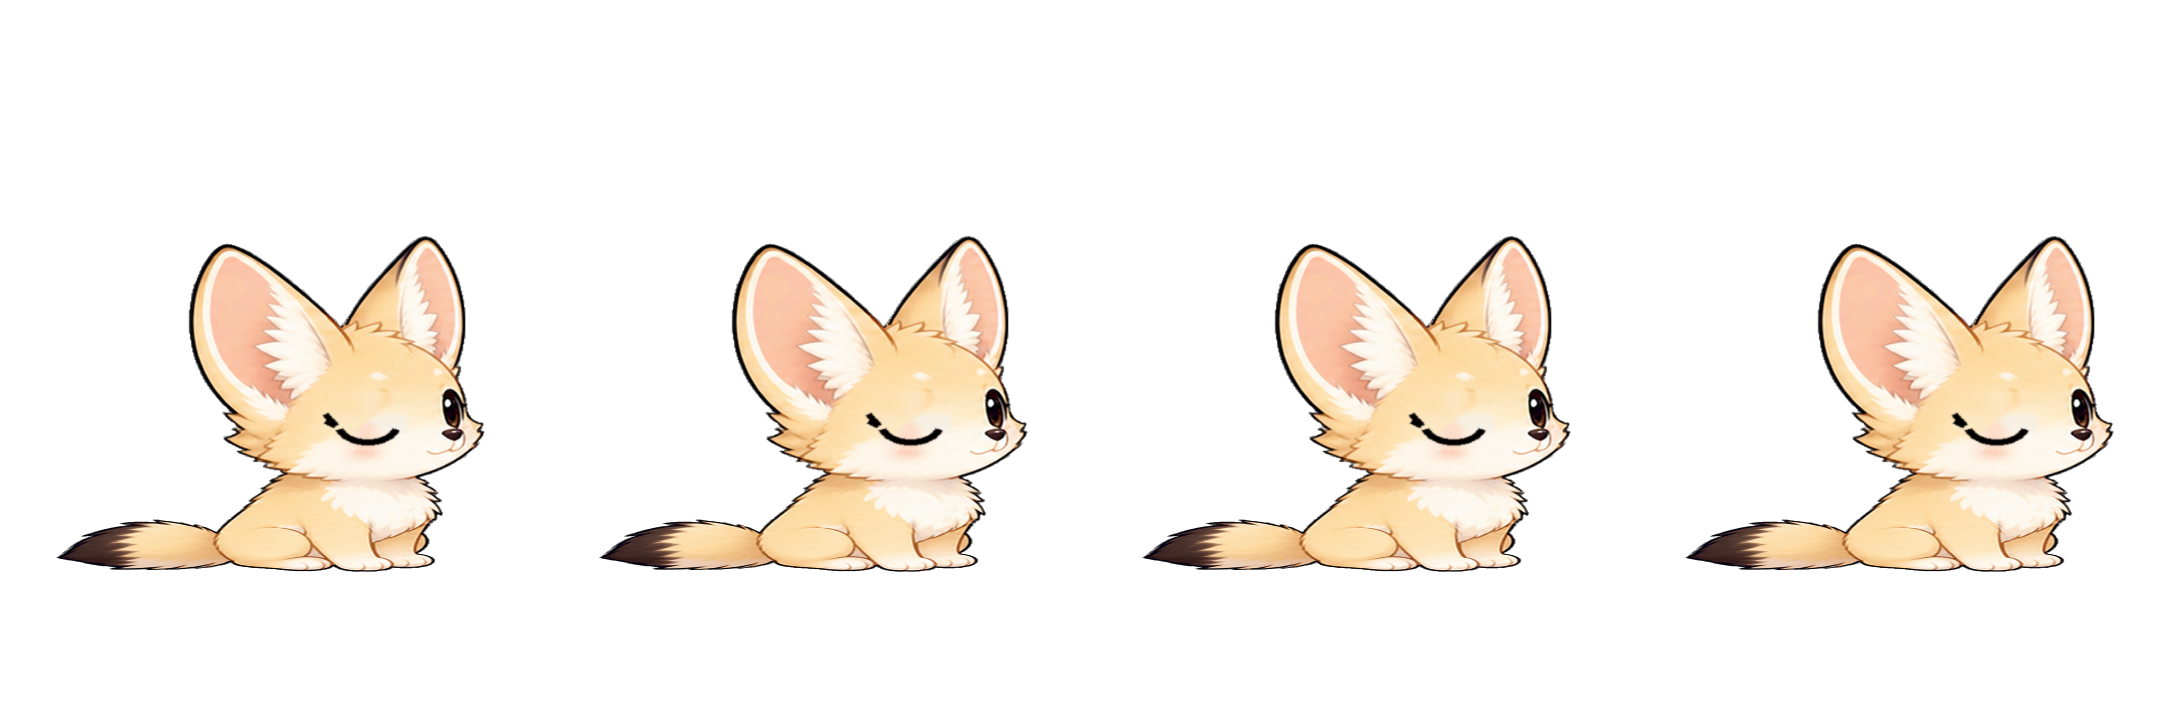
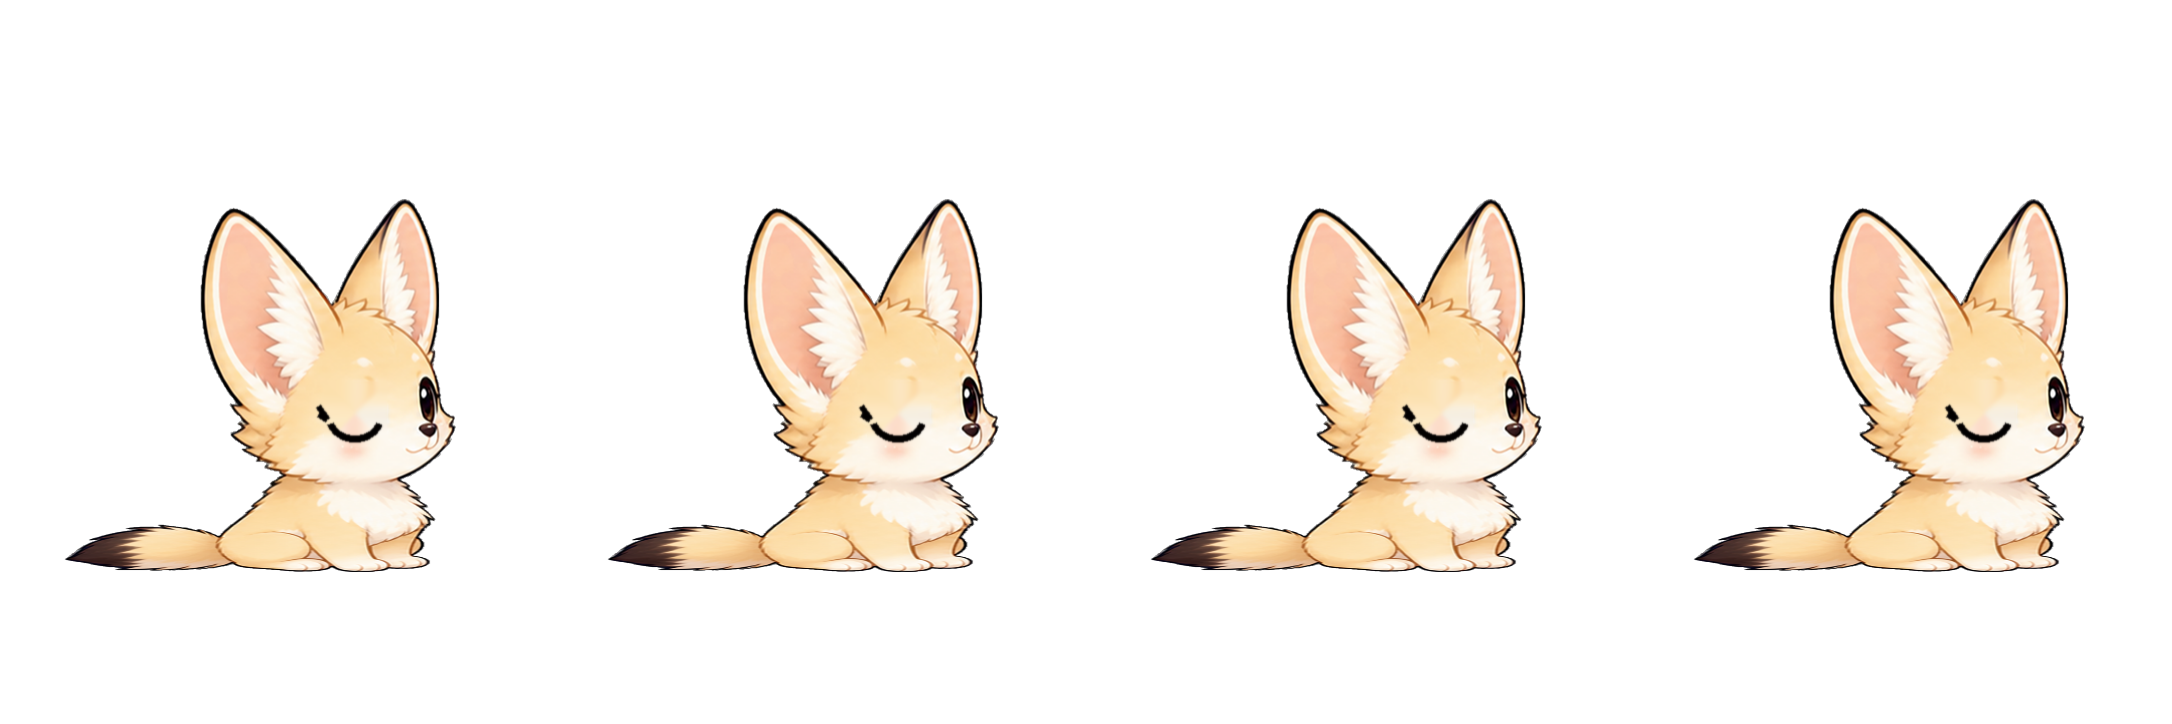
비율 왜곡 수정

diff --git a/src/DeskNote.App/Views/DesktopPetWindow.xaml b/src/DeskNote.App/Views/DesktopPetWindow.xaml
@@ -123,8 +123,14 @@
             PointerMoved="OnPetPointerMoved"
             PointerReleased="OnPetPointerReleased"
             PointerCaptureLost="OnPetPointerCaptureLost">
+            <!-- Rotation first, so a sway happens in the pet's own space and mirrors with it
+                 when it turns around. Both scale factors are always equal: see
+                 ApplyFacingTransform. -->
             <Grid.RenderTransform>
-                <ScaleTransform x:Name="FacingTransform" ScaleX="-1" ScaleY="1" />
+                <TransformGroup>
+                    <RotateTransform x:Name="PoseRotation" />
+                    <ScaleTransform x:Name="FacingTransform" ScaleX="-1" ScaleY="1" />
+                </TransformGroup>
             </Grid.RenderTransform>
             <Grid.Clip>
                 <RectangleGeometry x:Name="SpriteClip" Rect="0,0,150,200" />

diff --git a/src/DeskNote.App/Views/DesktopPetWindow.xaml.cs b/src/DeskNote.App/Views/DesktopPetWindow.xaml.cs
@@ -33,9 +33,9 @@ public sealed partial class DesktopPetWindow : Window
     // The sleeping artwork is the same frame with the animal lying down in it, so everything
     // that hangs off the pet's head has to come down with it. Measured off the generated sheets
     // by assets/companion/build_sleep_sprites.py, which prints the content bounds it produced.
-    private const double SleepHeadTopFraction = 0.58;
-    private const double SleepRestEffectFraction = 0.50;
-    private const double SleepSpeechFraction = 0.66;
+    private const double SleepHeadTopFraction = 0.62;
+    private const double SleepRestEffectFraction = 0.54;
+    private const double SleepSpeechFraction = 0.80;
     private const double RestEffectSideOffset = 18;
     private const double SpeechBubbleGap = 2;
     private const double SpeechBubbleReserve = 58;
@@ -81,8 +81,7 @@ public sealed partial class DesktopPetWindow : Window
     private double _y;
     private double _frameWidth = BaseFrameWidth;
     private double _frameHeight = BaseFrameHeight;
-    private double _growthScaleX = 1;
-    private double _growthScaleY = 1;
+    private double _growthScale = 1;
     private double _frameTime;
     private int _frame;
     private int _direction = -1;
@@ -100,8 +99,8 @@ public sealed partial class DesktopPetWindow : Window
     private CompanionGrowthMark _growthMark = CompanionGrowthMark.None;
     private double _restElapsed;
     private double _restDuration;
-    private double _poseScaleX = 1;
-    private double _poseScaleY = 1;
+    private double _poseScale = 1;
+    private double _poseAngle;
     private TimeSpan _restUntil;
     private TimeSpan _walkUntil;
     private TimeSpan _lastTopmostCheck;
@@ -311,7 +310,7 @@ public sealed partial class DesktopPetWindow : Window
             0,
             0,
             Math.Min(
-                (_frameHeight * _growthScaleY * SpeechAnchorFraction()) + SpeechBubbleGap,
+                (_frameHeight * _growthScale * SpeechAnchorFraction()) + SpeechBubbleGap,
                 WindowHeight - SpeechBubbleReserve));
 
     /// <summary>How much of the frame the pet currently fills, from the floor up.</summary>
@@ -538,7 +537,7 @@ public sealed partial class DesktopPetWindow : Window
         }
 
         var area = DisplayArea.GetFromWindowId(AppWindow.Id, DisplayAreaFallback.Primary).WorkArea;
-        var visibleFrameWidth = _frameWidth * _growthScaleX;
+        var visibleFrameWidth = _frameWidth * _growthScale;
         var horizontalInset = (WindowWidth - visibleFrameWidth) / 2;
         var left = area.X - horizontalInset;
         var right = area.X + area.Width - WindowWidth + horizontalInset;
@@ -578,7 +577,7 @@ public sealed partial class DesktopPetWindow : Window
             _motionState = PetMotionState.Walking;
             SetAnimation(PetAnimation.Walk);
             SetFrame(0);
-            SetPoseScale(1, 1);
+            SetPose(1, angle: 0);
             GrowthMarkLift.Y = 0;
             ApplyFacingTransform(forceRight: true);
             UpdateOrnamentVisibility();
@@ -632,8 +631,8 @@ public sealed partial class DesktopPetWindow : Window
         // and the facing is re-applied here because an edge turn flips the direction one line
         // before this call - a pet that sat down still facing the wall it just reached read as a
         // missed frame.
-        _poseScaleX = 1;
-        _poseScaleY = 1;
+        _poseScale = 1;
+        _poseAngle = 0;
         ApplyFacingTransform();
     }
 
@@ -645,8 +644,8 @@ public sealed partial class DesktopPetWindow : Window
         // last, and ChooseRestPose uses it to avoid dealing the same pose twice running; clearing
         // it here would have compared every roll against a pose the pet had not held for minutes.
         SetAnimation(PetAnimation.Walk);
-        _poseScaleX = 1;
-        _poseScaleY = 1;
+        _poseScale = 1;
+        _poseAngle = 0;
         ApplyFacingTransform();
         ShowRestEffect();
         PositionSpeechBubble();
@@ -722,24 +721,22 @@ public sealed partial class DesktopPetWindow : Window
             case PetRestPose.Sleep:
                 // No frame advance: the sheet is one held pose, and the only motion a sleeping
                 // animal has is its breathing.
-                var breath = Math.Sin(_restElapsed * 1.7);
-                SetPoseScale(1 - (0.018 * breath), 1 + (0.032 * breath));
+                SetPose(1 + (0.015 * Math.Sin(_restElapsed * 1.7)), angle: 0);
                 AnimateSleep();
                 break;
 
             case PetRestPose.Daydream:
                 AdvanceFrame(elapsed, 1.1);
-                var sway = Math.Sin(_restElapsed * 0.85);
-                SetPoseScale(1 + (0.014 * sway), 1 - (0.014 * sway));
+                SetPose(1, angle: 1.6 * Math.Sin(_restElapsed * 0.85));
                 AnimateDaydream();
                 break;
 
             case PetRestPose.Stretch:
                 AdvanceFrame(elapsed, 0.18);
-                // One full cycle over the pose: up onto the toes, down into a slump, back to rest.
+                // One cycle over the pose: up and out of the slouch, then back down into it.
                 var pulse = Math.Sin(
                     (_restDuration <= 0 ? 1 : _restElapsed / _restDuration) * Math.PI * 2);
-                SetPoseScale(1 - (0.10 * pulse), 1 + (0.17 * pulse));
+                SetPose(1 + (0.055 * pulse), angle: -2.4 * pulse);
                 break;
 
             default:
@@ -748,15 +745,25 @@ public sealed partial class DesktopPetWindow : Window
         }
     }
 
-    private void SetPoseScale(double x, double y)
+    /// <summary>
+    /// Moves the pet without reshaping it.
+    /// </summary>
+    /// <remarks>
+    /// The three moving poses used to squash one axis while stretching the other - the classic
+    /// squash and stretch, which on a drawing this soft just looks like the pet is rippling, and
+    /// which was reported as exactly that. A uniform scale and a rotation about the feet carry
+    /// the same three ideas - breathing, swaying, reaching - and neither one can change the
+    /// proportions of the artwork.
+    /// </remarks>
+    private void SetPose(double scale, double angle)
     {
-        if (Math.Abs(_poseScaleX - x) < 0.0005 && Math.Abs(_poseScaleY - y) < 0.0005)
+        if (Math.Abs(_poseScale - scale) < 0.0005 && Math.Abs(_poseAngle - angle) < 0.01)
         {
             return;
         }
 
-        _poseScaleX = x;
-        _poseScaleY = y;
+        _poseScale = scale;
+        _poseAngle = angle;
         ApplyFacingTransform();
     }
 
@@ -818,8 +825,7 @@ public sealed partial class DesktopPetWindow : Window
         _appearancePet = pet;
         _appearanceStage = normalizedStage;
         var appearance = CompanionGrowthAppearanceCatalog.For(pet, normalizedStage);
-        _growthScaleX = appearance.WidthScale;
-        _growthScaleY = appearance.HeightScale;
+        _growthScale = appearance.Scale;
         _growthMark = appearance.Mark;
         ApplyGrowthMark();
         ApplyFacingTransform(_settings.ReduceMotion);
@@ -848,7 +854,7 @@ public sealed partial class DesktopPetWindow : Window
     /// </remarks>
     private void PositionOrnaments()
     {
-        var drawnHeight = _frameHeight * _growthScaleY;
+        var drawnHeight = _frameHeight * _growthScale;
         var scale = Math.Clamp(drawnHeight / BaseFrameHeight, OrnamentMinimumScale, 1);
 
         GrowthMarkScale.ScaleX = scale;
@@ -916,10 +922,20 @@ public sealed partial class DesktopPetWindow : Window
         SparkleRight.Opacity = 0.55 + (0.45 * Math.Sin((seconds * 2.6) + Math.PI));
     }
 
+    /// <summary>
+    /// Puts the pet at the size, facing and pose it should currently have.
+    /// </summary>
+    /// <remarks>
+    /// Both axes always carry the same factor. Anything that scales one differently from the
+    /// other is redrawing somebody's artwork to the wrong proportions, and on a pose that
+    /// animates it reads as the pet rippling.
+    /// </remarks>
     private void ApplyFacingTransform(bool forceRight = false)
     {
-        FacingTransform.ScaleX = (forceRight ? 1 : _direction) * _growthScaleX * _poseScaleX;
-        FacingTransform.ScaleY = _growthScaleY * _poseScaleY;
+        var scale = _growthScale * _poseScale;
+        FacingTransform.ScaleX = (forceRight ? 1 : _direction) * scale;
+        FacingTransform.ScaleY = scale;
+        PoseRotation.Angle = _poseAngle;
     }
 
     /// <summary>A hungry, bored pet plods; a happy one trots. Never fully stops, which would

diff --git a/src/DeskNote.Companion.Core/CompanionPet.cs b/src/DeskNote.Companion.Core/CompanionPet.cs
@@ -105,22 +105,9 @@ public enum CompanionGrowthMark
 }
 
 public readonly record struct CompanionGrowthAppearance(
-    double WidthScale,
-    double HeightScale,
+    double Scale,
     CompanionGrowthMark Mark);
 
-/// <summary>
-/// Keeps the original species artwork while changing its silhouette from a small, round newborn
-/// at stage one to the full adult proportions at stage five, and hangs a per-stage ornament over
-/// it.
-/// </summary>
-/// <remarks>
-/// The silhouette used to run from about 0.75 of full size up to 1.0, which is under 7% per rung.
-/// Nobody sees 7% across the days it takes to earn a rung: five stages that all looked the same
-/// meant the growth ladder only existed as a number in the dashboard. The newborn now starts near
-/// half size, so each promotion is a visible 15% step, and the ornament makes the stage readable
-/// even when there is no earlier pet to compare against.
-/// </remarks>
 public static class CompanionGrowthAppearanceCatalog
 {
     public const int FinalStage = 4;
@@ -128,21 +115,19 @@ public static class CompanionGrowthAppearanceCatalog
     public static CompanionGrowthAppearance For(CompanionPetKind pet, int appearanceStage)
     {
         var stage = Math.Clamp(appearanceStage, 0, FinalStage);
+
+        // How small each species starts. The differences are small and deliberate - a newborn
+        // dragon is not a newborn dog - but they are differences in size only.
         var newborn = pet switch
         {
-            // Taller newborn silhouettes preserve the signature ears.
-            CompanionPetKind.Rabbit => (Width: 0.50, Height: 0.50),
-            CompanionPetKind.FennecFox => (Width: 0.52, Height: 0.52),
-
-            // Broader, shorter silhouettes read as round-faced puppies and kittens.
-            CompanionPetKind.Cat => (Width: 0.56, Height: 0.46),
-            CompanionPetKind.Dog => (Width: 0.58, Height: 0.48),
-
-            // Otter pups keep their characteristically low, rounded body.
-            CompanionPetKind.Otter => (Width: 0.60, Height: 0.44),
-            CompanionPetKind.Dragon => (Width: 0.52, Height: 0.46),
-            CompanionPetKind.Monkey => (Width: 0.56, Height: 0.48),
-            _ => (Width: 0.54, Height: 0.48),
+            CompanionPetKind.Rabbit => 0.50,
+            CompanionPetKind.Cat => 0.51,
+            CompanionPetKind.Dog => 0.53,
+            CompanionPetKind.FennecFox => 0.52,
+            CompanionPetKind.Otter => 0.51,
+            CompanionPetKind.Monkey => 0.52,
+            CompanionPetKind.Dragon => 0.49,
+            _ => 0.51,
         };
 
         // Even steps rather than an ease-out. The old curve spent most of its travel on the first
@@ -157,8 +142,7 @@ public static class CompanionGrowthAppearanceCatalog
         };
 
         return new CompanionGrowthAppearance(
-            newborn.Width + ((1d - newborn.Width) * progress),
-            newborn.Height + ((1d - newborn.Height) * progress),
+            newborn + ((1d - newborn) * progress),
             MarkFor(stage));
     }
 

diff --git a/assets/companion/build_sleep_sprites.py b/assets/companion/build_sleep_sprites.py
@@ -33,12 +33,16 @@ SPRITES = ROOT / "src" / "DeskNote.App" / "Assets" / "Companion"
 SPECIES = ["rabbit", "cat", "dog", "fennec", "otter", "monkey", "dragon"]
 FRAME_COUNT = 4
 
-# How much of its own height each band keeps. The head barely compresses; the body carries the
-# whole descent. Tuned by eye against all seven species - past about 0.35 on the body the animals
-# stop reading as lying down and start reading as run over.
-HEAD_SCALE = 0.86
-BODY_SCALE = 0.42
-WIDEN = 1.16
+# How much of its own height each band keeps, and how much wider it spreads.
+#
+# The head is left at its exact drawn proportions. An earlier cut squeezed it to 0.86 while
+# widening the whole figure by 1.16, which is a 35% change to the shape of the face - the one
+# part of the drawing anybody looks at, and quite visibly squashed. The descent is carried
+# entirely by the body, and the spread is applied per row on the same ramp, so the body broadens
+# the way a lying animal does while the head keeps the width it was drawn with.
+HEAD_SCALE = 1.0
+BODY_SCALE = 0.38
+BODY_WIDEN = 1.12
 
 
 def _luminance(pixels):
@@ -318,14 +322,36 @@ def settle(frame, eye_box):
     blended = pixels[low].astype(np.float64) * (1 - fraction) \
         + pixels[high].astype(np.float64) * fraction
 
-    settled = Image.fromarray(blended.astype(np.uint8), "RGBA")
-    settled = settled.resize(
-        (max(1, int(round(settled.width * WIDEN))), settled.height), Image.LANCZOS)
+    # Spread, per row, on the ramp the compression used. A single resize of the whole figure
+    # would widen the head too, which is what made the face look squashed.
+    spread = 1.0 + (BODY_WIDEN - 1.0) * np.interp(source, y, ramp)
+    blended = _stretch_rows(blended, spread)
+
+    settled = Image.fromarray(np.clip(blended, 0, 255).astype(np.uint8), "RGBA")
 
     # The feet stay on the same line they stood on, so the pet does not hop when it lies down.
     out = Image.new("RGBA", frame.size, (0, 0, 0, 0))
     out.paste(settled, ((frame.width - settled.width) // 2, bottom - settled.height), settled)
     return out
+
+
+def _stretch_rows(rows, spread):
+    """Scales every row horizontally about the centre by its own factor."""
+    height, width = rows.shape[:2]
+    centre = (width - 1) / 2.0
+    columns = np.arange(width, dtype=np.float64)
+    source_x = (columns[None, :] - centre) / spread[:, None] + centre
+
+    left = np.floor(source_x)
+    fraction = (source_x - left)[:, :, None]
+    left = left.astype(int)
+    right = left + 1
+    inside = (left >= 0) & (right < width)
+
+    rows_index = np.arange(height)[:, None]
+    gathered = (rows[rows_index, np.clip(left, 0, width - 1)] * (1 - fraction)
+                + rows[rows_index, np.clip(right, 0, width - 1)] * fraction)
+    return np.where(inside[:, :, None], gathered, 0.0)
 
 
 def build(species):

diff --git a/tests/DeskNote.Companion.Core.Tests/CompanionDomainTests.cs b/tests/DeskNote.Companion.Core.Tests/CompanionDomainTests.cs
@@ -7,24 +7,22 @@ public class CompanionDomainTests
     private static readonly DateTimeOffset Morning = new(2026, 8, 31, 10, 0, 0, TimeSpan.FromHours(9));
 
     [Fact]
-    public void Every_pet_grows_from_a_distinct_juvenile_silhouette_to_full_size()
+    public void Every_pet_grows_from_a_small_newborn_to_full_size()
     {
         foreach (var pet in CompanionPetCatalog.All)
         {
             var previous = CompanionGrowthAppearanceCatalog.For(pet, 0);
-            Assert.True(previous.WidthScale < 1);
-            Assert.True(previous.HeightScale < 1);
+            Assert.True(previous.Scale < 1);
 
             for (var stage = 1; stage <= CompanionGrowthAppearanceCatalog.FinalStage; stage++)
             {
                 var current = CompanionGrowthAppearanceCatalog.For(pet, stage);
-                Assert.True(current.WidthScale > previous.WidthScale);
-                Assert.True(current.HeightScale > previous.HeightScale);
+                Assert.True(current.Scale > previous.Scale);
                 previous = current;
             }
 
             Assert.Equal(
-                new CompanionGrowthAppearance(1, 1, CompanionGrowthMark.Crown),
+                new CompanionGrowthAppearance(1, CompanionGrowthMark.Crown),
                 previous);
         }
     }
@@ -49,9 +47,9 @@ public class CompanionDomainTests
                 var current = CompanionGrowthAppearanceCatalog.For(pet, stage);
 
                 Assert.True(
-                    current.HeightScale / below.HeightScale >= 1.10,
+                    current.Scale / below.Scale >= 1.10,
                     $"{pet} stage {stage} is only "
-                    + $"{current.HeightScale / below.HeightScale:P0} of the stage below it.");
+                    + $"{current.Scale / below.Scale:P0} of the stage below it.");
             }
         }
     }

diff --git a/src/DeskNote.App/Views/CompanionWindow.xaml.cs b/src/DeskNote.App/Views/CompanionWindow.xaml.cs
@@ -933,8 +933,8 @@ public sealed partial class CompanionWindow : Window
         _avatarPet = pet;
         _avatarStage = normalizedStage;
         var appearance = CompanionGrowthAppearanceCatalog.For(pet, normalizedStage);
-        AvatarGrowthTransform.ScaleX = appearance.WidthScale;
-        AvatarGrowthTransform.ScaleY = appearance.HeightScale;
+        AvatarGrowthTransform.ScaleX = appearance.Scale;
+        AvatarGrowthTransform.ScaleY = appearance.Scale;
     }
 
     public void ShowSuggestion(CompanionSuggestion suggestion)
